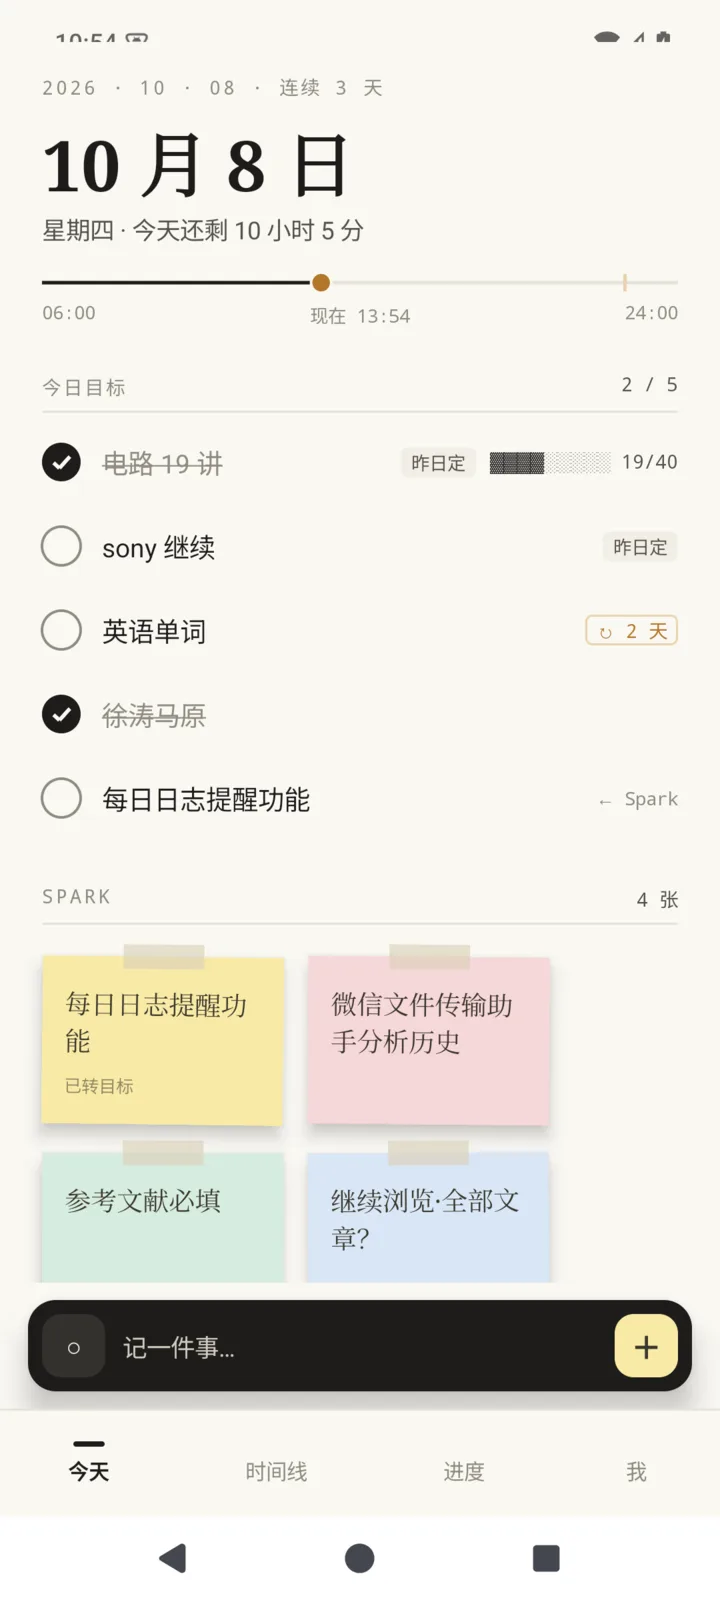
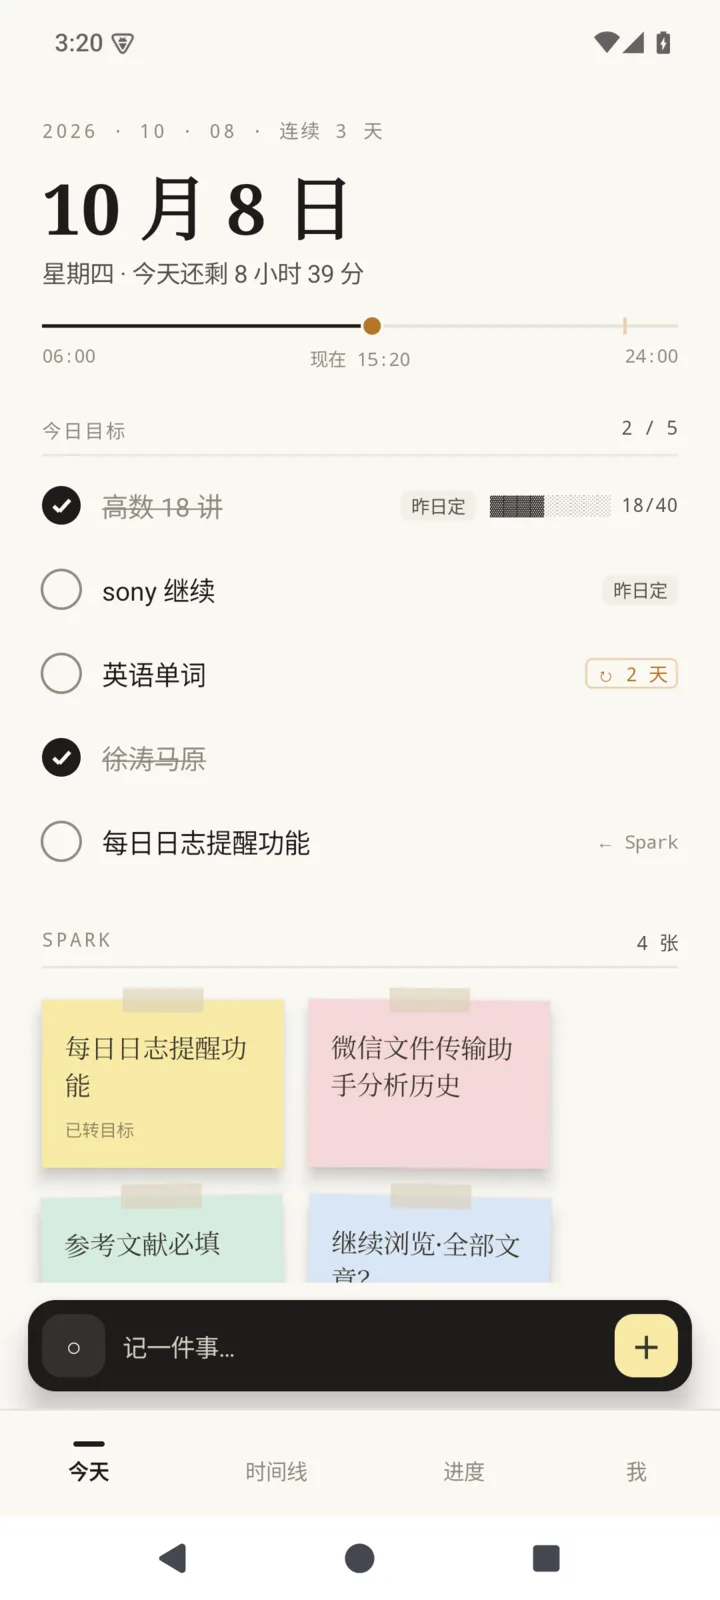
宣传页上线（GitHub Pages）；示例改为「高数 18 讲」；Android 发布签名
- pages 工作流：site/ → functionhx.github.io/riji/
- 下载按钮直链 Releases 的 Riji-macOS.zip / Riji-Android.apk；macOS 26 的「仍要打开」说明
- 示例数据与宣传页：电路 → 高数（今日 高数 18 讲，进度 18/40），重拍截图（15:20）
- Android release 包从站长本机 ~/.riji/android-release.properties 读取签名，密钥不进仓库

diff --git a/site/index.html b/site/index.html
@@ -10,7 +10,8 @@
 <meta property="og:type" content="website">
 <meta property="og:title" content="日迹 · 每天一页，留下痕迹">
 <meta property="og:description" content="晚上写下明天，明早它就在今天的第一行。只提醒你缺的那一样。">
-<meta property="og:image" content="assets/og.png">
+<meta property="og:image" content="https://functionhx.github.io/riji/assets/og.png">
+<meta property="og:url" content="https://functionhx.github.io/riji/">
 <meta name="twitter:card" content="summary_large_image">
 <link rel="icon" type="image/png" href="assets/favicon-64.png">
 <link rel="apple-touch-icon" href="assets/apple-touch-icon.png">
@@ -261,7 +262,7 @@ footer a{text-decoration:none}footer a:hover{color:var(--ink)}
           <div class="inklabels"><span>06:00</span><span id="ink-label">现在 13:47</span><span>24:00</span></div>
           <div class="sec"><span class="eyebrow">今日目标</span><span id="count">1 / 4</span></div>
           <div class="task"><span class="c"></span><span class="t">背 50 个单词</span><span class="tag plan">昨日定</span></div>
-          <div class="task on"><span class="c"></span><span class="t">电路 19 讲</span><span class="meter"><b>▓▓▓▓</b><i>▒▒▒▒▒</i> 19/40</span></div>
+          <div class="task on"><span class="c"></span><span class="t">高数 18 讲</span><span class="meter"><b>▓▓▓▓</b><i>▒▒▒▒▒</i> 18/40</span></div>
           <div class="task"><span class="c"></span><span class="t">sony 继续</span><span class="tag carry">↻ 2 天</span></div>
           <div class="task"><span class="c"></span><span class="t">参考文献必填</span><span class="tag spark">← Spark</span></div>
         </div>
@@ -281,7 +282,7 @@ footer a{text-decoration:none}footer a:hover{color:var(--ink)}
       <div class="day reveal" id="day-line">
         <div class="fill"></div><div class="sun"></div>
         <div class="stop"><div class="when">07:30 · 醒来</div><h3>昨晚写的，在第一行</h3><p>明日目标在零点后自动排进今天第一行，标着「昨日定」。不用再抄一遍。</p></div>
-        <div class="stop"><div class="when">白天 · 随手</div><h3>一闪而过的，贴一张</h3><p>灵感贴成 Spark 便利贴；写「电路 19 讲」，勾掉时长期进度自己往前走。</p></div>
+        <div class="stop"><div class="when">白天 · 随手</div><h3>一闪而过的，贴一张</h3><p>灵感贴成 Spark 便利贴；写「高数 18 讲」，勾掉时长期进度自己往前走。</p></div>
         <div class="stop"><div class="when">22:30 · 提醒</div><h3>只提缺的那一样</h3><p>总结写了就只问明天，目标定了就只问总结。都写好了，今晚安安静静。</p></div>
         <div class="stop"><div class="when">23:00 · 兜底</div><h3>还空着？发封邮件</h3><p>通知被划掉也没关系：一封邮件送到你常看的邮箱，一天最多一封。</p></div>
         <div class="stop"><div class="when">明天 · 继续</div><h3>没做完的，自己跟上</h3><p>未完成的事带到明天，记着「↻ 2 天」。删掉，就是放下。</p></div>
@@ -324,18 +325,18 @@ footer a{text-decoration:none}footer a:hover{color:var(--ink)}
           <div class="demo flow">
             <div class="mini"><div class="eyebrow">今晚 · 明日目标</div>
               <div class="row"><span class="arrow">↳</span>背 50 个单词</div>
-              <div class="row"><span class="arrow">↳</span>电路 20 讲</div></div>
+              <div class="row"><span class="arrow">↳</span>高数 19 讲</div></div>
             <div class="mid">→</div>
             <div class="mini"><div class="eyebrow">明早 · 今日目标</div>
               <div class="row"><span class="c" style="width:16px;height:16px;border:1.5px solid var(--ink3);border-radius:50%"></span>背 50 个单词<span class="tag plan" style="margin-left:auto">昨日定</span></div>
-              <div class="row"><span class="c" style="width:16px;height:16px;border:1.5px solid var(--ink3);border-radius:50%"></span>电路 20 讲<span class="tag plan" style="margin-left:auto">昨日定</span></div></div>
+              <div class="row"><span class="c" style="width:16px;height:16px;border:1.5px solid var(--ink3);border-radius:50%"></span>高数 19 讲<span class="tag plan" style="margin-left:auto">昨日定</span></div></div>
           </div>
         </div>
         <div class="card reveal">
           <h3>长期进度，自己往前走</h3>
-          <p>写「电路 19 讲」「马原 第 6 章」，自动归到对应的进度；勾掉，进度就推进。</p>
+          <p>写「高数 18 讲」「马原 第 6 章」，自动归到对应的进度；勾掉，进度就推进。</p>
           <div class="demo mini">
-            <div class="pr"><span>电路</span><span>19/40 讲</span></div><div class="bar"><i style="width:47%"></i></div>
+            <div class="pr"><span>高数</span><span>18/40 讲</span></div><div class="bar"><i style="width:45%"></i></div>
             <div class="pr"><span>英语单词</span><span>26/60 天</span></div><div class="bar"><i style="width:43%"></i></div>
             <div class="pr"><span>马原</span><span>6/8 章</span></div><div class="bar" style="margin-bottom:2px"><i style="width:75%"></i></div>
           </div>
@@ -404,8 +405,8 @@ footer a{text-decoration:none}footer a:hover{color:var(--ink)}
         <p class="lead">先做了 macOS 和 Android；iPhone、iPad 与 Windows 在路上。</p>
       </div>
       <div class="platforms reveal">
-        <div class="plat"><span class="state ok">可用</span><h3>macOS</h3><div class="ver">macOS 26 及以上</div><p>三栏布局、⌘T 回到今天、⌘, 设置提醒。第一次打开：右键 → 打开。</p><a class="btn primary" href="https://github.com/Functionhx/riji/releases/latest">下载 macOS 版</a></div>
-        <div class="plat"><span class="state ok">测试中</span><h3>Android</h3><div class="ver">Android 12 及以上</div><p>荣耀等国行机型无需谷歌服务；记得允许自启动，提醒才准时。</p><a class="btn primary" href="https://github.com/Functionhx/riji/releases/latest">下载 APK</a></div>
+        <div class="plat"><span class="state ok">可用</span><h3>macOS</h3><div class="ver">macOS 26 及以上</div><p>三栏布局、⌘T 回到今天、⌘, 设置提醒。解压后拖进「应用程序」；第一次打开被拦下时，到「系统设置 → 隐私与安全性」点「仍要打开」。</p><a class="btn primary" href="https://github.com/Functionhx/riji/releases/latest/download/Riji-macOS.zip">下载 macOS 版</a></div>
+        <div class="plat"><span class="state ok">测试中</span><h3>Android</h3><div class="ver">Android 12 及以上</div><p>荣耀等国行机型无需谷歌服务。安装时允许「未知来源」；记得允许自启动，提醒才准时。</p><a class="btn primary" href="https://github.com/Functionhx/riji/releases/latest/download/Riji-Android.apk">下载 APK</a></div>
         <div class="plat soon"><span class="state">以后</span><h3>iPhone · iPad</h3><div class="ver">与 macOS 共用代码</div><p>已经能编译，等适配好手势与小屏再发布。</p></div>
         <div class="plat soon"><span class="state">以后</span><h3>Windows</h3><div class="ver">计划中</div><p>同一套同步协议，换一副外壳。</p></div>
       </div>

diff --git a/apple/RijiKit/Sources/RijiUI/RijiModel.swift b/apple/RijiKit/Sources/RijiUI/RijiModel.swift
@@ -159,15 +159,15 @@ public enum DemoData {
             // 昨天：1007
             let english = try book.add(.check, text: "英语单词", to: .todo, on: yesterday, now: now)
             _ = english
-            for text in ["徐涛马原", "电路 18 讲"] {
+            for text in ["徐涛马原", "高数 17 讲"] {
                 if let task = try book.add(.check, text: text, to: .todo, on: yesterday, now: now) { try book.setChecked(true, of: task.id) }
             }
             for text in ["sony 继续", "文章便利贴功能", "参考文献必填"] {
                 try book.add(.spark, text: text, to: .spark, on: yesterday, now: now)
             }
             try book.setNotes("感觉黑夜模式下更好看？", on: yesterday, now: now)
-            try book.setSummary("马原过完一轮，电路推进到 18 讲。", on: yesterday)
-            for text in ["电路 19 讲", "sony 继续"] {
+            try book.setSummary("马原过完一轮，高数推进到 17 讲。", on: yesterday)
+            for text in ["高数 18 讲", "sony 继续"] {
                 try book.add(.check, text: text, to: .tomorrow, on: yesterday, now: now)
             }
             // 今天：1008
@@ -176,16 +176,16 @@ public enum DemoData {
                 try book.setAttr("carried_days", .number(2), of: english.id)
             }
             if let task = try book.add(.check, text: "徐涛马原", to: .todo, on: today, now: now) { try book.setChecked(true, of: task.id) }
-            if let task = book.items(.todo, on: today).first(where: { $0.text.plain == "电路 19 讲" }) { try book.setChecked(true, of: task.id) }
+            if let task = book.items(.todo, on: today).first(where: { $0.text.plain == "高数 18 讲" }) { try book.setChecked(true, of: task.id) }
             let spark = try book.add(.spark, text: "每日日志提醒功能", to: .spark, on: today, now: now)
             if let spark { try book.promote(spark: spark.id, on: today, now: now) }
-            try book.add(.check, text: "电路 20 讲", to: .tomorrow, on: today, now: now)
+            try book.add(.check, text: "高数 19 讲", to: .tomorrow, on: today, now: now)
             for text in ["微信文件传输助手分析历史", "参考文献必填", "继续浏览·全部文章？"] {
                 try book.add(.spark, text: text, to: .spark, on: today, now: now)
             }
-            if var circuit = book.progresses.first(where: { $0.name == "电路" }) {
-                circuit.target = 40
-                try book.updateProgress(circuit)
+            if var math = book.progresses.first(where: { $0.name == "高数" }) {
+                math.target = 40
+                try book.updateProgress(math)
             }
             try book.updateProgress(ProgressItem(id: "demo-english", name: "英语单词", unit: "天", current: 26, target: 60, updatedDay: today))
             try book.updateProgress(ProgressItem(id: "demo-marx", name: "马原", unit: "章", current: 6, target: 8, updatedDay: yesterday))

diff --git a/android/app/src/main/kotlin/com/functionhx/riji/DemoData.kt b/android/app/src/main/kotlin/com/functionhx/riji/DemoData.kt
@@ -22,19 +22,19 @@ object DemoData {
             }
         }
         book.add(BlockKind.CHECK, "英语单词", SectionRole.TODO, yesterday, now = now)
-        for (text in listOf("徐涛马原", "电路 18 讲")) book.add(BlockKind.CHECK, text, SectionRole.TODO, yesterday, now = now)?.let { book.setChecked(true, it.id) }
+        for (text in listOf("徐涛马原", "高数 17 讲")) book.add(BlockKind.CHECK, text, SectionRole.TODO, yesterday, now = now)?.let { book.setChecked(true, it.id) }
         for (text in listOf("sony 继续", "文章便利贴功能", "参考文献必填")) book.add(BlockKind.SPARK, text, SectionRole.SPARK, yesterday, now = now)
         book.setNotes("感觉黑夜模式下更好看？", yesterday, now)
-        book.setSummary("马原过完一轮，电路推进到 18 讲。", yesterday)
-        for (text in listOf("电路 19 讲", "sony 继续")) book.add(BlockKind.CHECK, text, SectionRole.TOMORROW, yesterday, now = now)
+        book.setSummary("马原过完一轮，高数推进到 17 讲。", yesterday)
+        for (text in listOf("高数 18 讲", "sony 继续")) book.add(BlockKind.CHECK, text, SectionRole.TOMORROW, yesterday, now = now)
         book.ensureDay(today, now)
         book.items(SectionRole.TODO, today).firstOrNull { it.carryFrom != null }?.let { book.setAttr("carried_days", JsonValue.num(2), it.id) }
         book.add(BlockKind.CHECK, "徐涛马原", SectionRole.TODO, today, now = now)?.let { book.setChecked(true, it.id) }
-        book.items(SectionRole.TODO, today).firstOrNull { it.text == "电路 19 讲" }?.let { book.setChecked(true, it.id) }
+        book.items(SectionRole.TODO, today).firstOrNull { it.text == "高数 18 讲" }?.let { book.setChecked(true, it.id) }
         book.add(BlockKind.SPARK, "每日日志提醒功能", SectionRole.SPARK, today, now = now)?.let { book.promote(it.id, today, now) }
-        book.add(BlockKind.CHECK, "电路 20 讲", SectionRole.TOMORROW, today, now = now)
+        book.add(BlockKind.CHECK, "高数 19 讲", SectionRole.TOMORROW, today, now = now)
         for (text in listOf("微信文件传输助手分析历史", "参考文献必填", "继续浏览·全部文章？")) book.add(BlockKind.SPARK, text, SectionRole.SPARK, today, now = now)
-        book.progresses.firstOrNull { it.name == "电路" }?.let { book.updateProgress(it.copy(target = 40)) }
+        book.progresses.firstOrNull { it.name == "高数" }?.let { book.updateProgress(it.copy(target = 40)) }
         book.updateProgress(ProgressItem("demo-english", "英语单词", "天", 26, 60, updatedDay = today))
         book.updateProgress(ProgressItem("demo-marx", "马原", "章", 6, 8, updatedDay = yesterday))
     }
